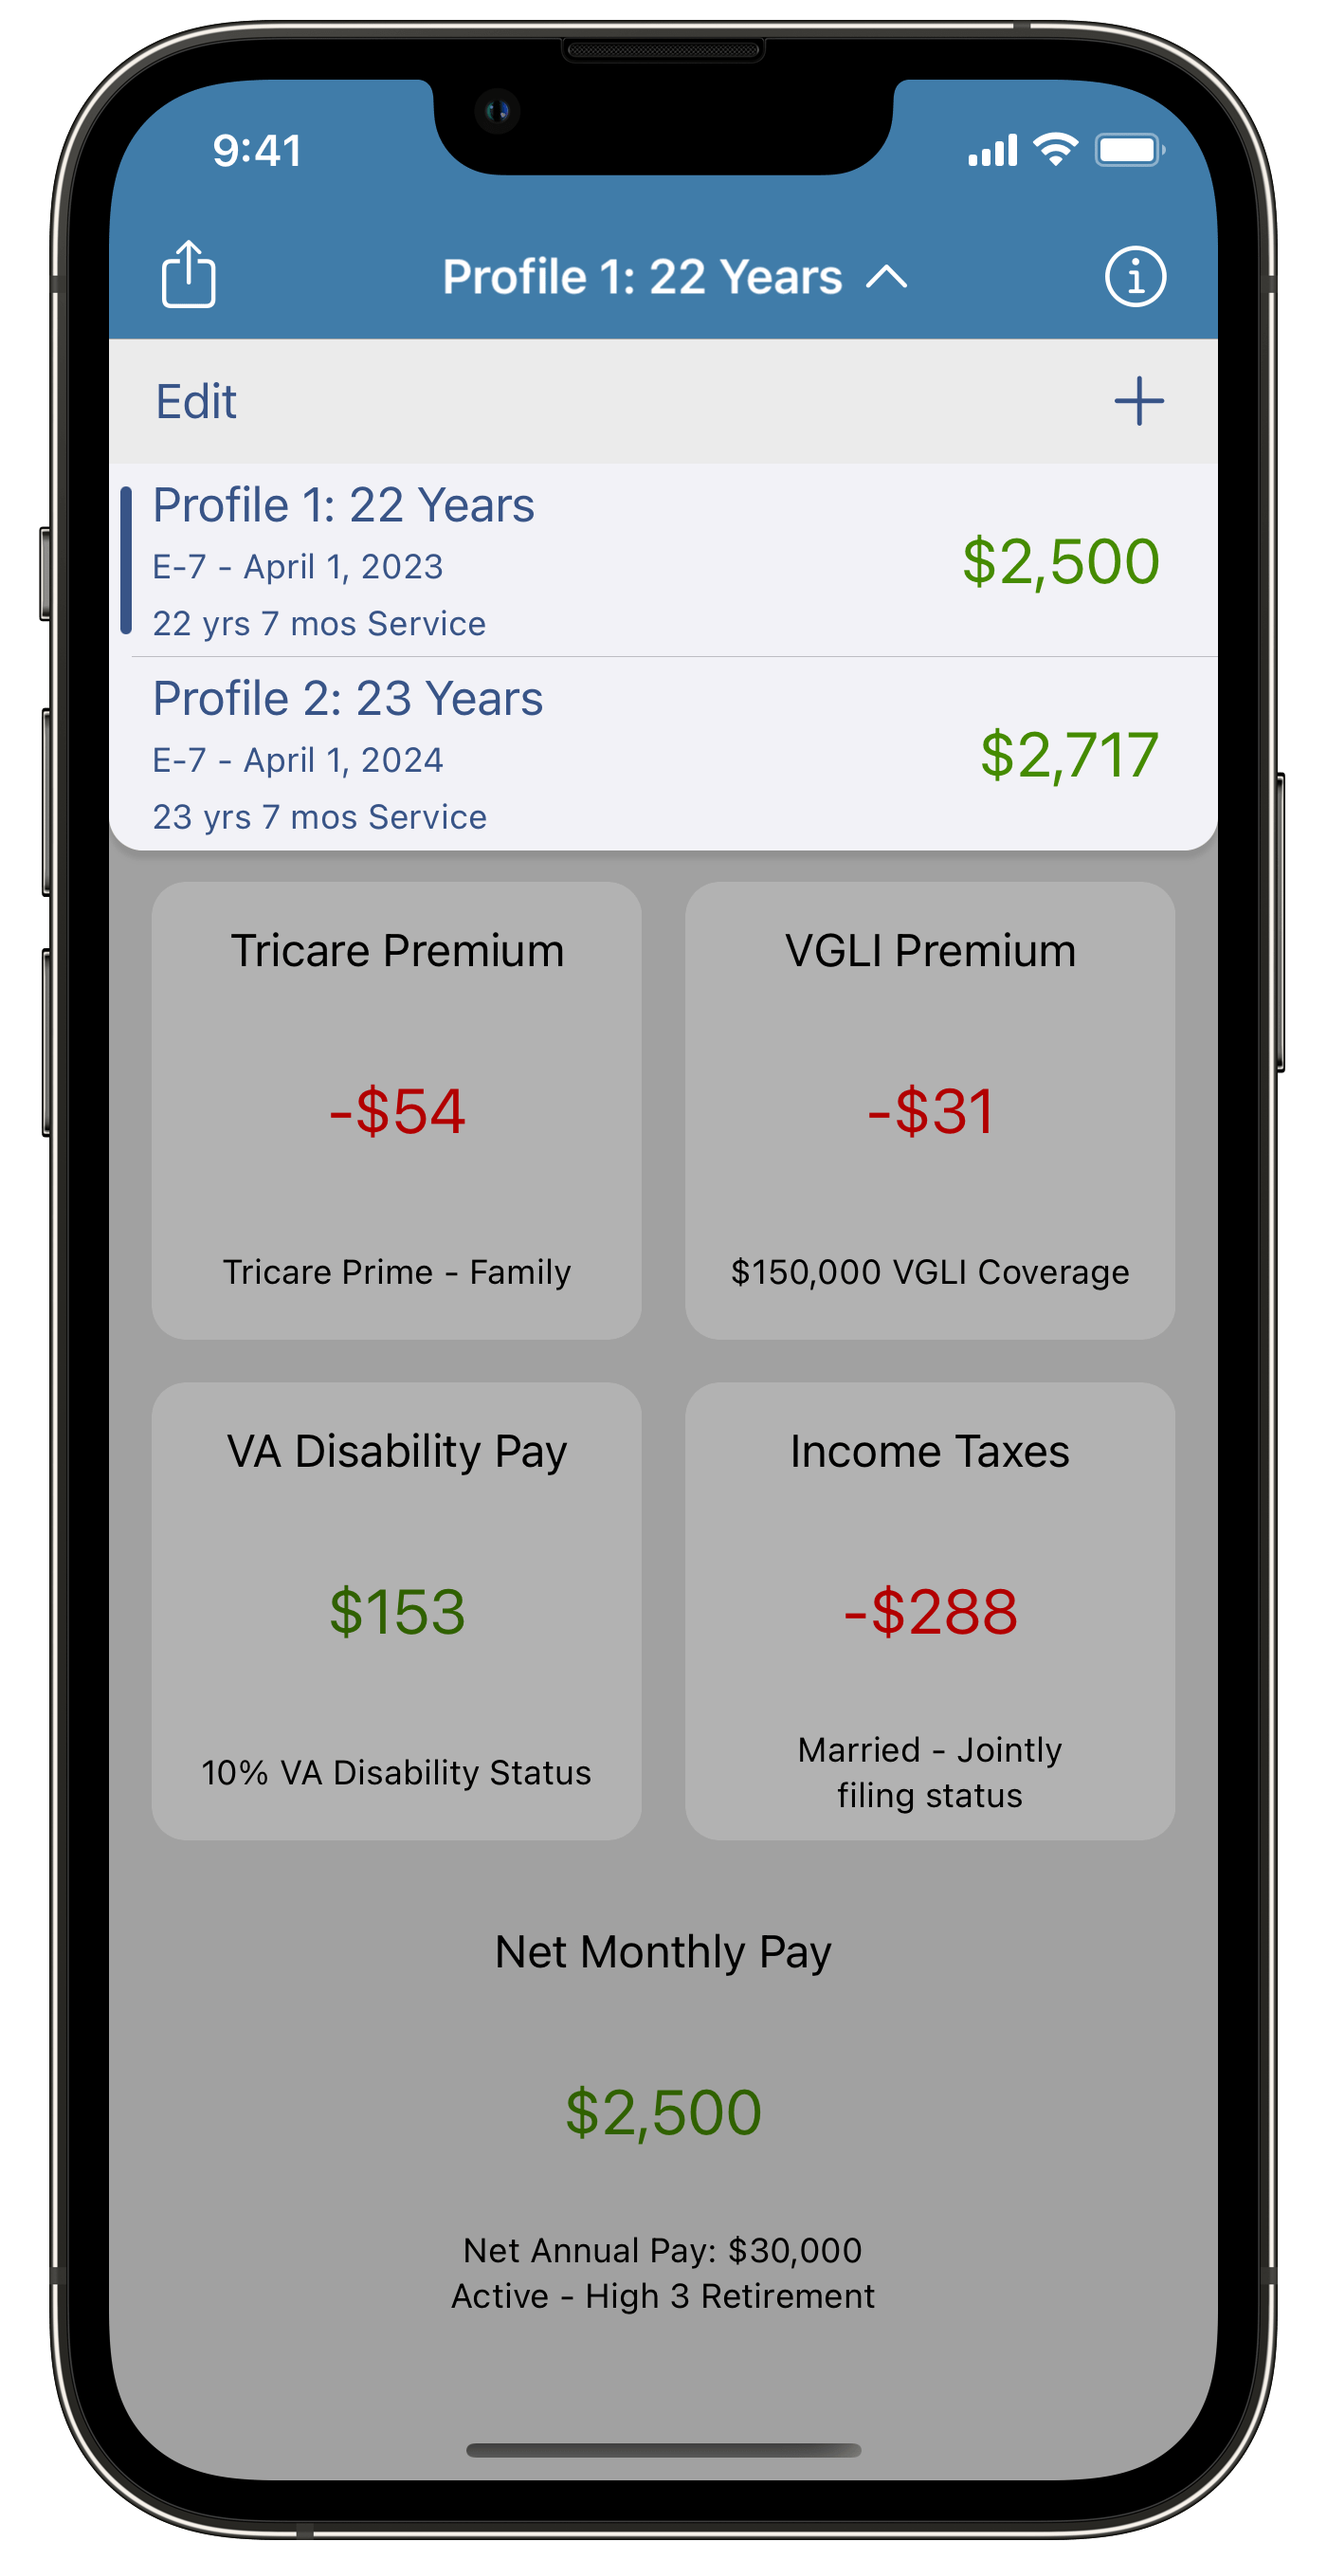
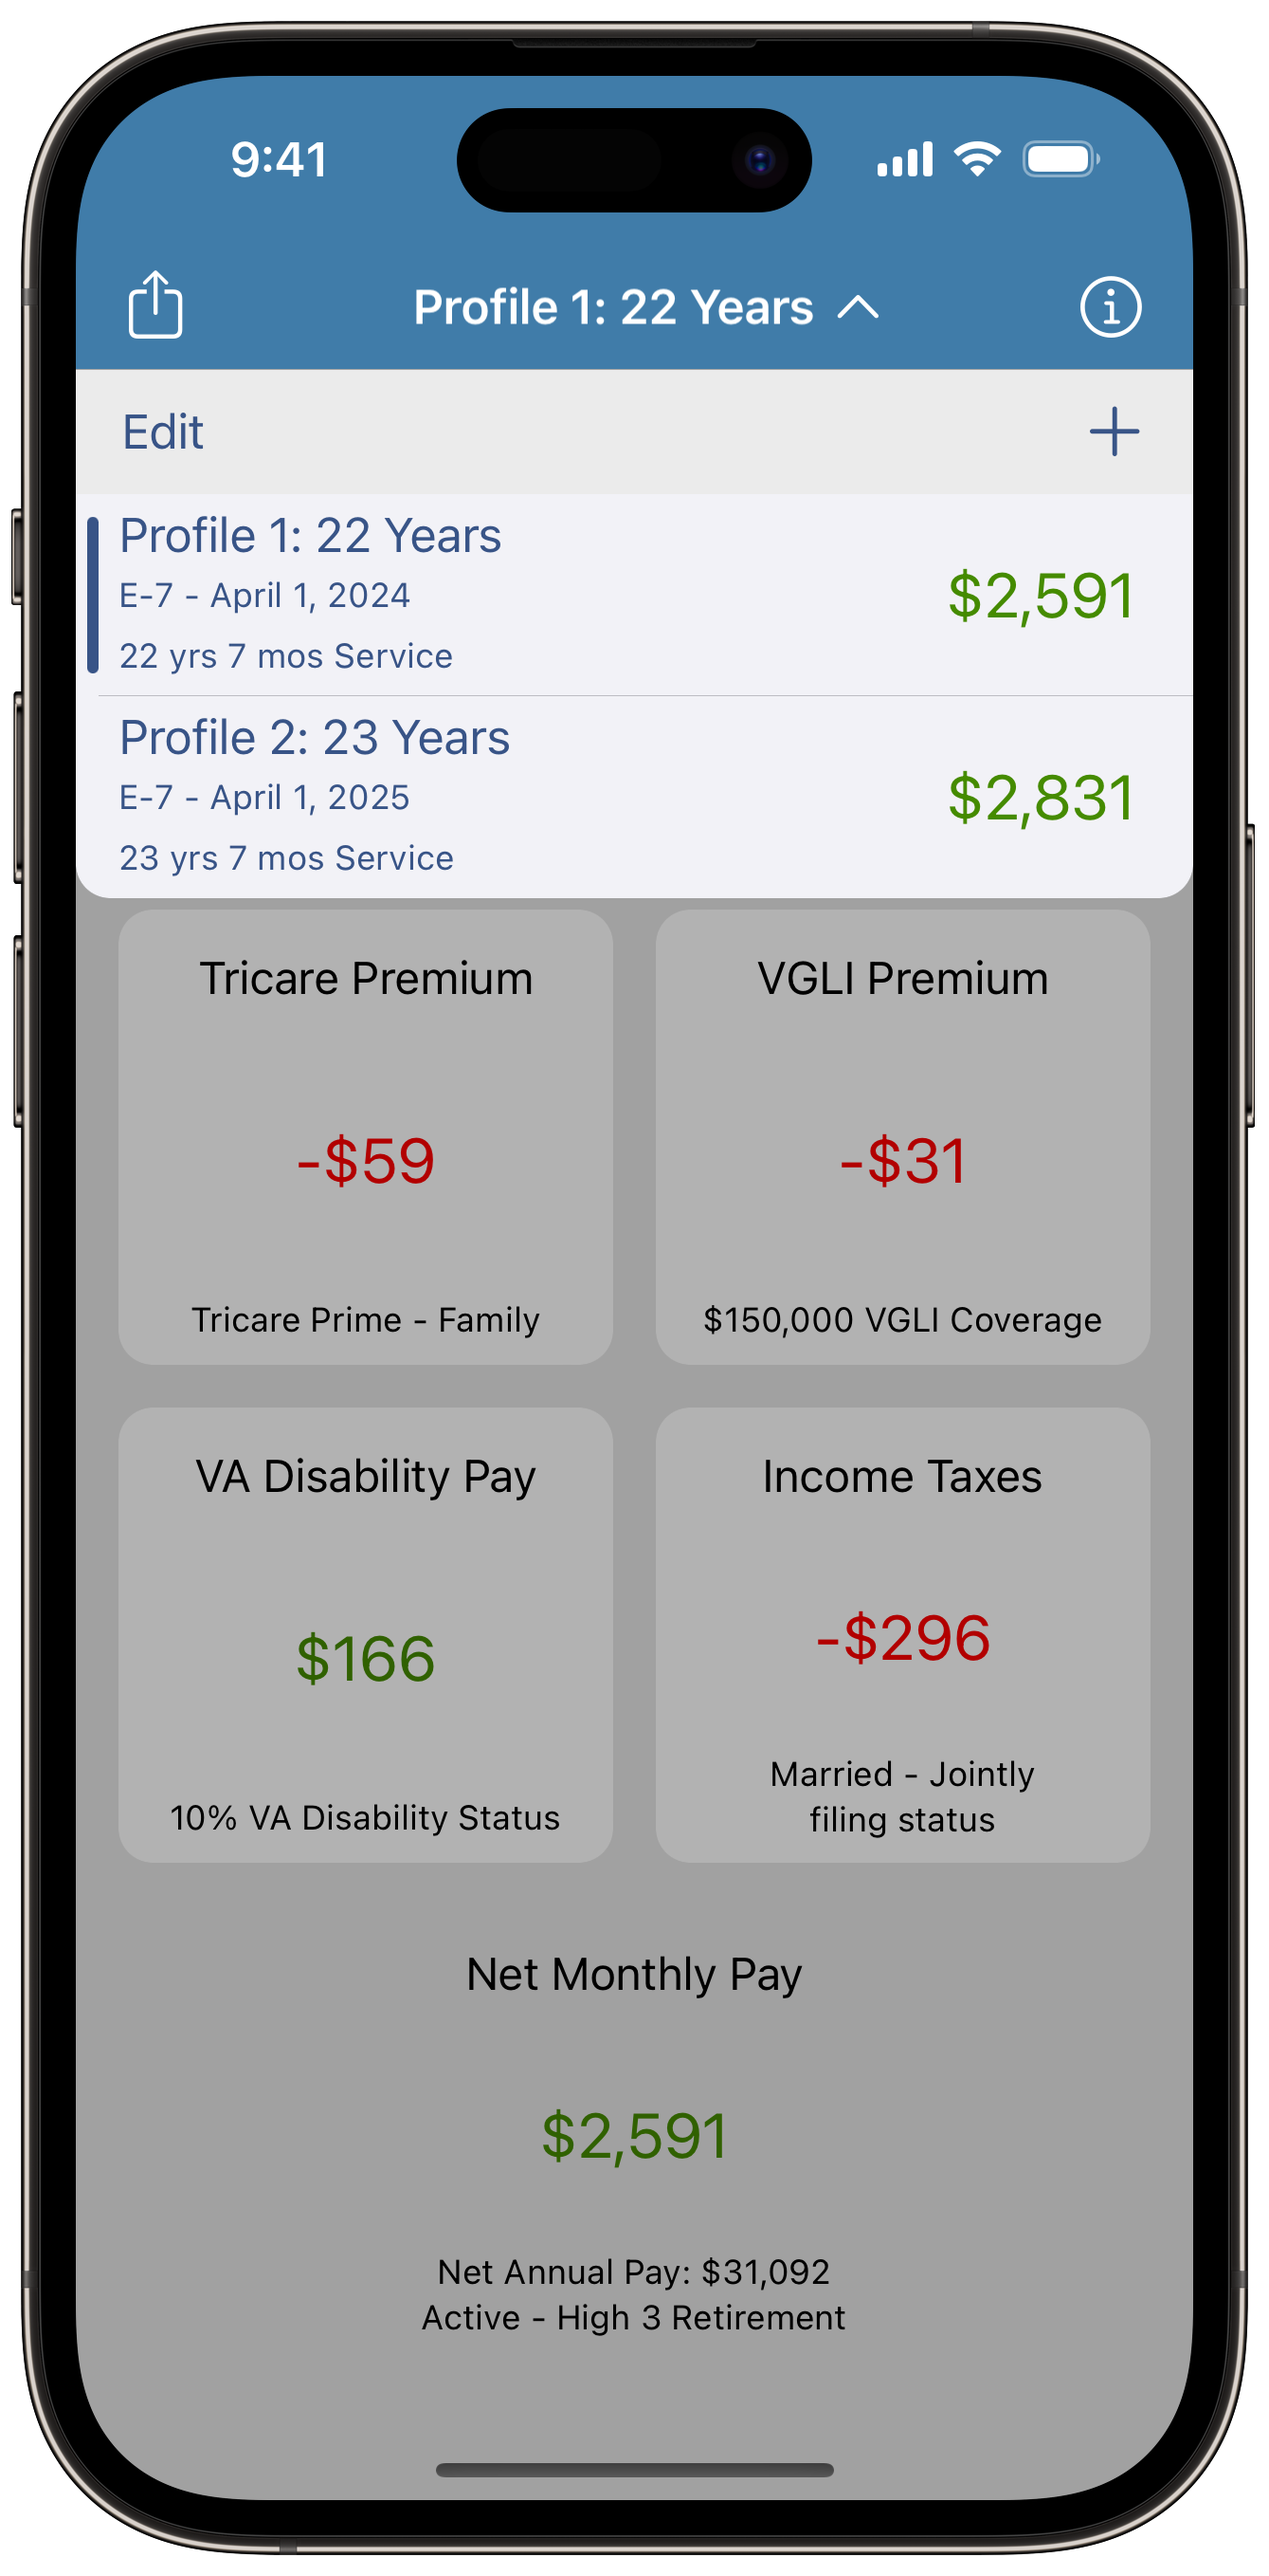
Update screenshots to latest and remove Android screenshots to clean up site

diff --git a/military-retire-app.md b/military-retire-app.md
@@ -67,21 +67,4 @@ layout: default
             </a>
         </div>
     </div>
-    <div class="screen-shots">
-        <div class="screen-shot">
-            <a href="/assets/android_military_retire_main.png" draggable="false">
-                <img src="/assets/android_military_retire_main.png" alt="" draggable="false" />
-            </a>
-        </div>
-        <div class="screen-shot">
-            <a href="/assets/android_military_retire_ret_pay.png" draggable="false">
-                <img src="/assets/android_military_retire_ret_pay.png" alt="" draggable="false" />
-            </a>
-        </div>
-        <div class="screen-shot">
-            <a href="/assets/android_military_retire_list.png" draggable="false">
-                <img src="/assets/android_military_retire_list.png" alt="" draggable="false" />
-            </a>
-        </div>
-    </div>
 </div>
